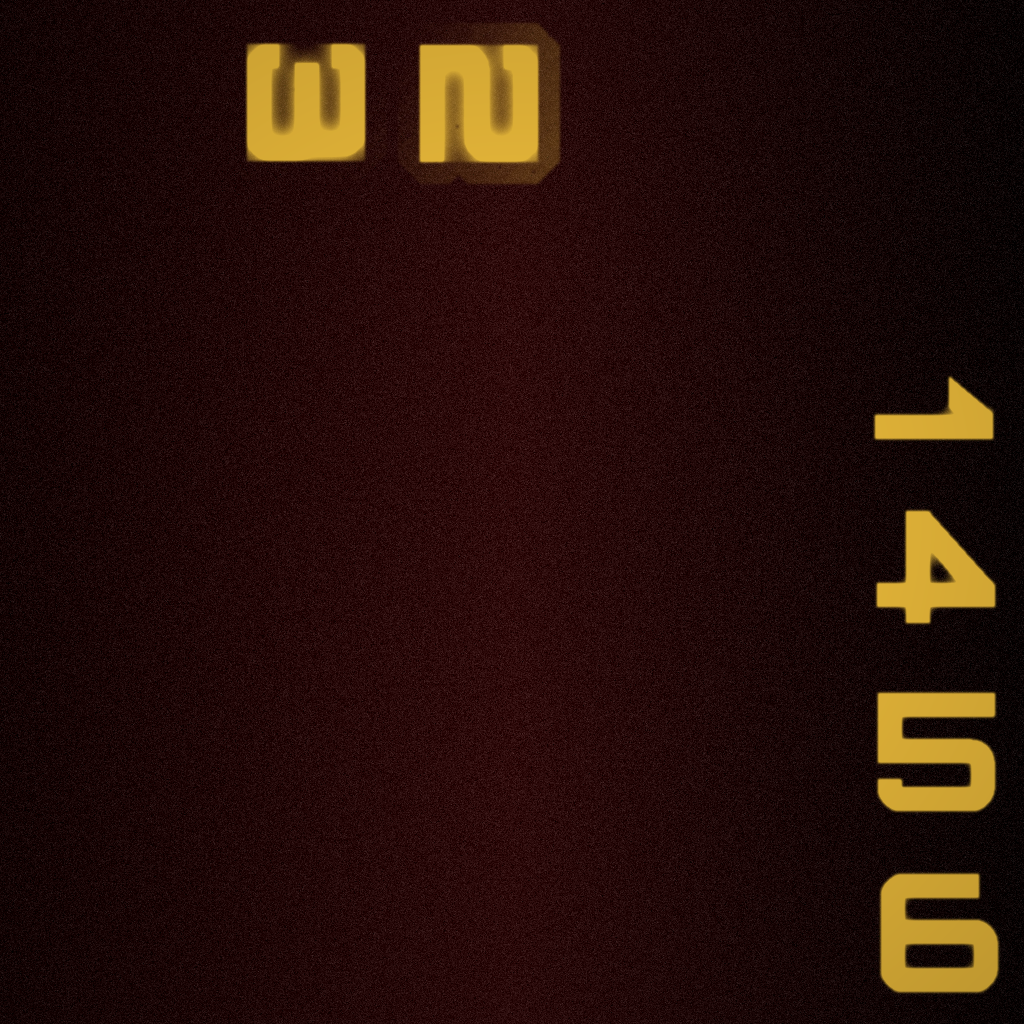
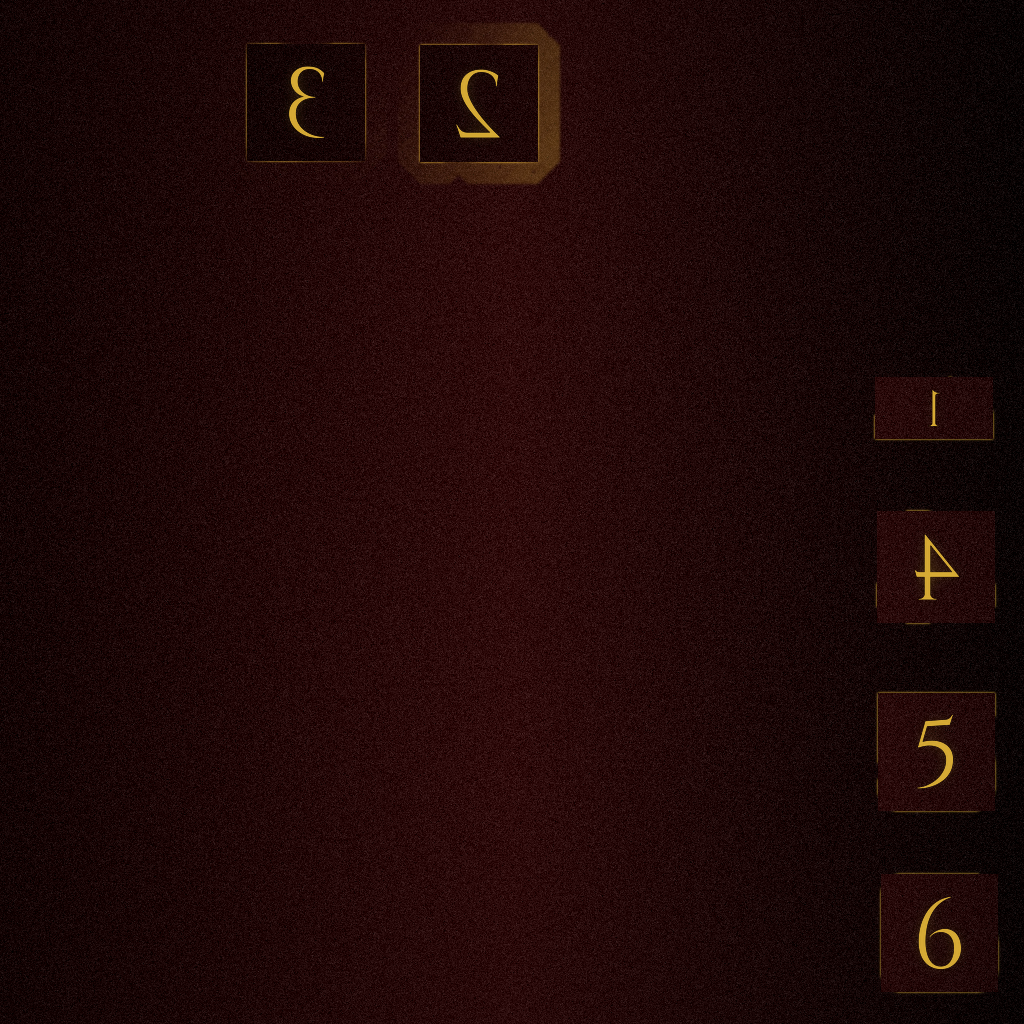
Fix dice number ghosting with clean font-rendered glyphs, add real per-theme fonts, enable all die types

diff --git a/tools/dice_roller_v1.html b/tools/dice_roller_v1.html
@@ -416,8 +416,6 @@ body {
   BOT_THEMES.forEach(name => { EXTERNAL_THEMES[name] = `${BOT_THEMES_BASE}${name}`; });
   // Themes whose material is a fixed texture ("standard" type) ignore themeColor.
   const NON_RECOLORABLE_THEMES = ['blueGreenMetal', 'gemstoneMarble', 'wooden', ...BOT_THEMES];
-  // Bot themes only ship a d6 mesh/texture — other die types are hidden while one is active.
-  const ONLY_D6_THEMES = BOT_THEMES;
   // Legacy theme values saved before this update no longer point anywhere valid.
   const THEME_MIGRATION = { wood: 'wooden', smoothPip: 'smooth-pip' };
 
@@ -455,7 +453,6 @@ body {
       themeHallowed: '🕯 Consagrado (Sanctuary)',
       themePrimeval: '🪨 Pedra Primeva (Stone Age)',
       themeWasteland: '☢ Terra Devastada (TRV-9000)',
-      diceRestrictedNote: 'Este tema é feito à mão só para d6 — os outros dados foram ocultados.',
       colorLabel: 'Cor Principal',
       colorNote: 'Esta textura já tem cor/padrão próprio — a cor escolhida não se aplica.',
       numberColorLabel: 'Cor dos Números (Apenas UI)',
@@ -510,7 +507,6 @@ body {
       themeHallowed: '🕯 Hallowed (Sanctuary)',
       themePrimeval: '🪨 Primeval Stone (Stone Age)',
       themeWasteland: '☢ Wasteland (TRV-9000)',
-      diceRestrictedNote: 'This hand-made theme only supports d6 — other dice are hidden.',
       colorLabel: 'Main Color',
       colorNote: "This texture already has its own color/pattern — the chosen color won't apply.",
       numberColorLabel: 'Number Color (UI Only)',
@@ -599,14 +595,6 @@ body {
     }, 200);
   });
 
-  // Bot themes only have a d6 mesh — zero out any other die counts saved/loaded for them.
-  function sanitizeCounts(s) {
-    if (ONLY_D6_THEMES.includes(s.theme)) {
-      DICE_TYPES.forEach(type => { if (type !== 6) s.counts[type] = 0; });
-    }
-    return s;
-  }
-
   function loadState() {
     try {
       const raw = localStorage.getItem(STORAGE_KEY);
@@ -616,7 +604,7 @@ body {
         if (!parsed.sfx) parsed.sfx = 'none';
         if (!parsed.numberColor) parsed.numberColor = DEFAULT_STATE.numberColor;
         if (!parsed.numberFont) parsed.numberFont = DEFAULT_STATE.numberFont;
-        return sanitizeCounts(parsed);
+        return parsed;
       }
     } catch(e) {}
     return JSON.parse(JSON.stringify(DEFAULT_STATE));
@@ -661,7 +649,6 @@ body {
     if (!state.sfx) state.sfx = 'none';
     if (!state.numberColor) state.numberColor = DEFAULT_STATE.numberColor;
     if (!state.numberFont) state.numberFont = DEFAULT_STATE.numberFont;
-    sanitizeCounts(state);
     saveState();
     syncUIWithState();
     if (diceBox) {
@@ -716,7 +703,6 @@ body {
     document.getElementById('global-number-color-hex').textContent = state.numberColor;
     state.numberFont = document.getElementById('global-number-font').value;
     state.sfx = document.getElementById('global-sfx').value;
-    sanitizeCounts(state);
     saveState();
     updateColorPickerAvailability();
     applyNumberStyle();
@@ -732,9 +718,7 @@ body {
 
   function renderDiceList() {
     const list = document.getElementById('dice-list');
-    const restricted = ONLY_D6_THEMES.includes(state.theme);
-    const types = restricted ? [6] : DICE_TYPES;
-    list.innerHTML = types.map(type => {
+    list.innerHTML = DICE_TYPES.map(type => {
       const count = state.counts[type] || 0;
       return `
         <div class="die-row">
@@ -746,7 +730,7 @@ body {
           </div>
         </div>
       `;
-    }).join('') + (restricted ? `<p style="margin-top:10px; color: var(--text-dim); font-size: 0.75em;">${S().diceRestrictedNote}</p>` : '');
+    }).join('');
   }
 
   window.incDie = function(type, delta) {
